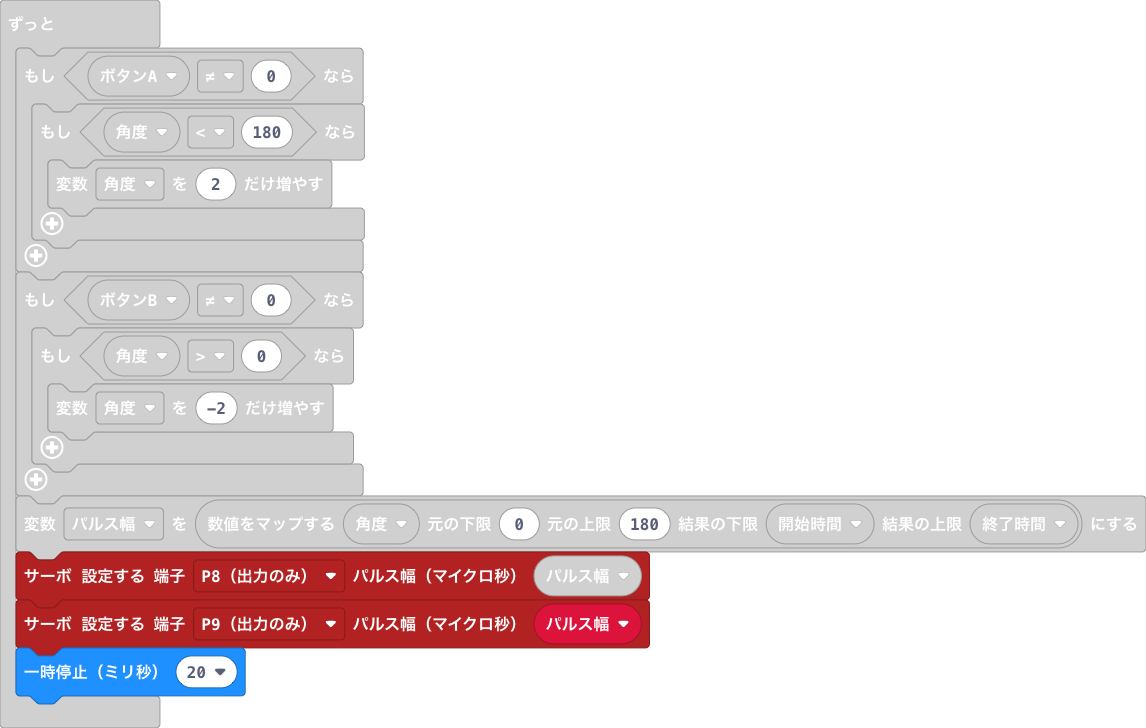
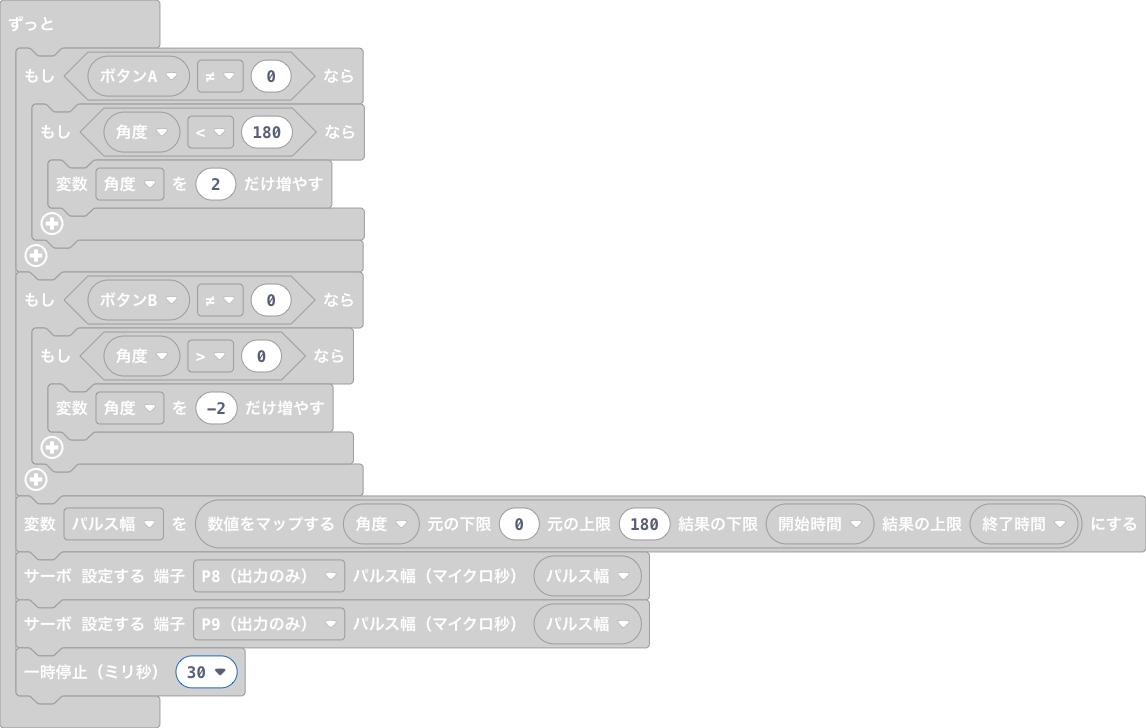
設定変更間隔を30msecに

Changed region(s): [[0.0, 0.7555, 0.5803, 0.967]]

diff --git a/main.ts b/main.ts
@@ -32,5 +32,5 @@ basic.forever(function () {
     パルス幅 = Math.map(角度, 0, 180, 開始時間, 終了時間)
     pins.servoSetPulse(AnalogPin.P8, パルス幅)
     pins.servoSetPulse(AnalogPin.P9, パルス幅)
-    basic.pause(20)
+    basic.pause(30)
 })
